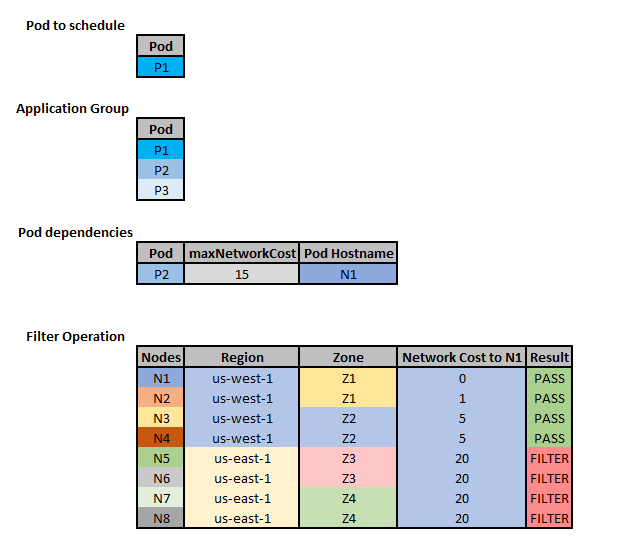
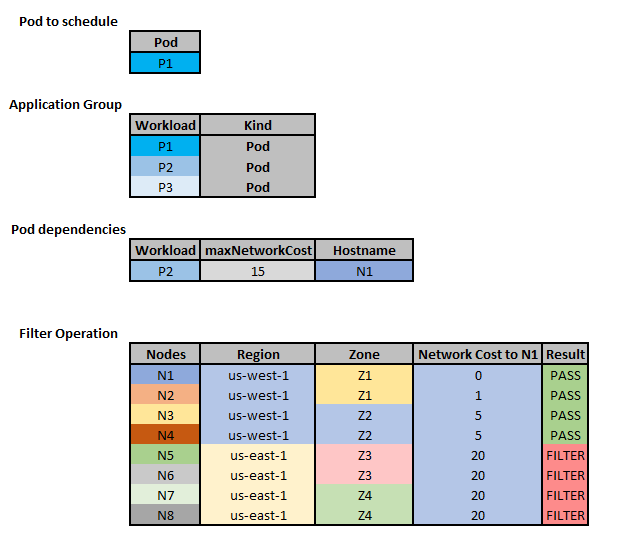
KEP modifications

diff --git a/kep/260-network-aware-scheduling/README.md b/kep/260-network-aware-scheduling/README.md
@@ -244,15 +244,15 @@ spec:
                     workloadRef: 
                       items:
                         description: Workload Reference (name, apiVersion, Kind)
-                        properties: 
+                        properties:
+                          kind:
+                            description: Kind is a string value representing the REST resource.
+                            type: string 
                           name: 
                             description: Represents the name of the Object
                             type: string
                           apiVersion:
                             description: APIVersion defines the versioned schema of an object. 
-                            type: string
-                          kind:
-                            description: Kind is a string value representing the REST resource.
                             type: string
                     dependencies:
                       items:
@@ -365,27 +365,24 @@ spec:
   workloads: 
     - workloadName: P1 # Corresponds to the Kubernetes service (Label selector)
       workloadRef: 
-        name: P1
-        apiVersion: apps/v1
         kind: Pod
+        name: P1
       dependencies:
         - workloadName: P2
           minBandwidth: "100Mi"
           maxNetworkCost: 30
     - workloadName: P2
       workloadRef: 
-        name: P2
-        apiVersion: apps/v1
         kind: Pod
+        name: P2
       dependencies:
         - workloadName: P3
           minBandwidth: "250Mi"
           maxNetworkCost: 20
     - workloadName: P3
       workloadRef: 
-        name: P3
-        apiVersion: apps/v1
         kind: Pod
+        name: P3
 ```
 
 An AppGroup controller updates the AppGroup CR regarding the pods already scheduled in the cluster and the preferred topology order for pod allocations. 
@@ -466,14 +463,16 @@ type AppGroupWorkload struct {
 // AppGroupWorkloadRefInfo contains information about one workload.
 // +protobuf=true
 type AppGroupWorkloadRefInfo struct {
-	// Name represents the name of the Object
-	Name string `json:"name,omitempty" protobuf:"bytes,1,opt,name=name"`
+
+    // Kind of the workload; info: https://git.k8s.io/community/contributors/devel/sig-architecture/api-conventions.md#types-kinds"
+    Kind string `json:"kind,omitempty" protobuf:"bytes,1,opt,name=kind"`
+
+	// Name represents the workload, info: http://kubernetes.io/docs/user-guide/identifiers#names
+	Name string `json:"name,omitempty" protobuf:"bytes,2,opt,name=name"`
 
 	// ApiVersion defines the versioned schema of an object.
-	ApiVersion string `json:"apiVersion,omitempty" protobuf:"bytes,2,opt,name=apiVersion"`
-
-	// Kind is a string value representing the REST resource.
-	Kind string `json:"kind,omitempty" protobuf:"bytes,3,opt,name=kind"`
+    // +optional
+	APIVersion string `json:"apiVersion,omitempty" protobuf:"bytes,3,opt,name=apiVersion"`
 }
 
 // DependenciesInfo contains information about one dependency.
@@ -1192,27 +1191,24 @@ spec:
   workloads:
     - workloadName: P1
       workloadRef: 
+        kind: Pod 
         name: P1
-        apiVersion: apps/v1
-        kind: Pod
       dependencies:
         - workloadName: P2
           minBandwidth: "100Mi"
           maxNetworkCost: 15
     - workloadName: P2
       workloadRef: 
-          name: P2
-          apiVersion: apps/v1
           kind: Pod
+          name: P2
       dependencies:
         - workloadName: P3
           minBandwidth: "250Mi"
           maxNetworkCost: 20
     - workloadName: P3
-      workloadRef: 
+      workloadRef:
+        kind: Pod 
         name: P3
-        apiVersion: apps/v1
-        kind: Pod
 ```
 
 At a given moment, the status part is the following: 
@@ -1297,8 +1293,6 @@ Now, let's consider that we need to schedule one pod corresponding to the worklo
 `P2` is an established dependency of `P1`. 
 
 So, nodes that do not respect its network cost requirement (i.e., `maxNetworkCost: 15`) will be filtered out:
-
-<!-- change example! (Workload, remove pod) -->
 
 <p align="center"><img src="figs/filterExample.png" title="filterExample" width="600" class="center"/></p>
 
@@ -1450,8 +1444,6 @@ After filtering nodes with the `NetworkOverhead` plugin, four nodes remain as ca
 
 Nodes with the lowest combined network costs will be scored higher: 
 
-<!-- change example! (Workload, remove pod) -->
-
 <p align="center"><img src="figs/scoreExample.png" title="scoreExample" width="800" class="center"/></p>
 
 # Known limitations
@@ -1555,3 +1547,4 @@ Unit tests and Integration tests will be added:
 - 2021-9-9: Presentation to the Kubernetes sig-scheduling community. 
 Received feedback and comments on the design and implementation. Recording available [here](https://youtu.be/D9jSqUiaq1Q). 
 - 2021-11-4: Initial KEP sent out for review, including Summary, Motivation, Proposal, Test plans and Graduation criteria.
+<!-- - 2022-01-14: KEP v0.1 sent out for review after receiving feedback on the initial KEP. -->
